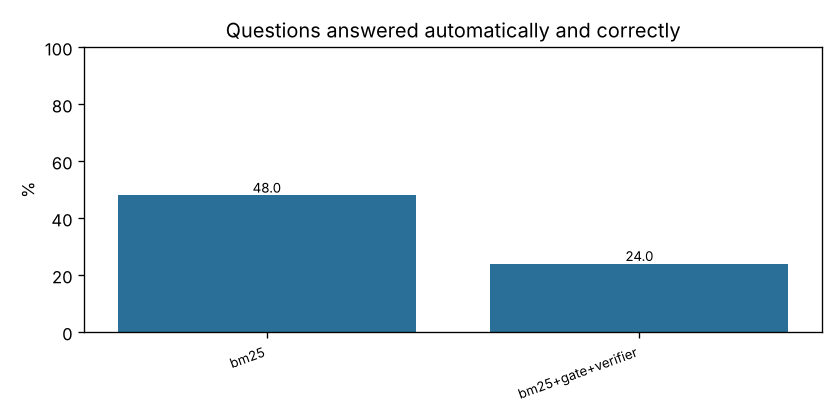
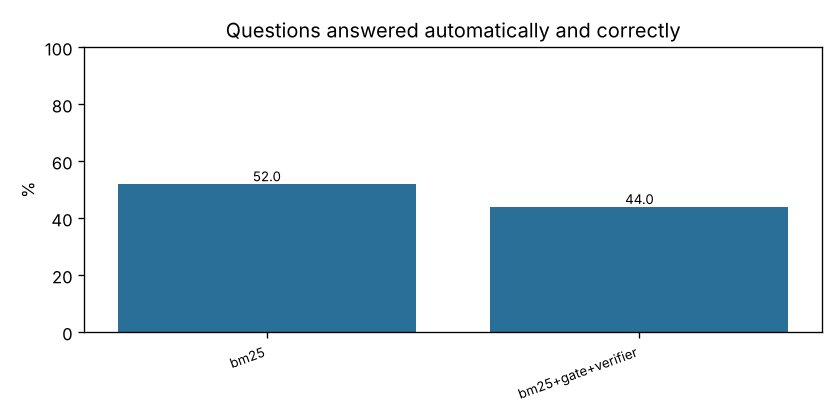
Spreadsheet label rows say '(template line item in ...)' so a section name never reads like a field value
Claude-Session: https://claude.ai/code/session_019u9b1pND1Kezy9oyWy8AQf

Changed region(s): [[0.5571, 0.4643, 0.9595, 0.65], [0.1238, 0.4024, 0.4952, 0.4643]]

diff --git a/tests/test_ingest.py b/tests/test_ingest.py
@@ -155,8 +155,8 @@ def test_parse_xlsx_headings_line_items_numbers_and_defs(tmp_path: Path) -> None
         "Column groups  LP share / Total fund",
     ]
     assert "# A.1 Reconciliation > Fees" in t  # bold row without values: sub-heading
-    assert "Management Fees  A.1 Reconciliation > Fees" in t
-    assert "Total Fees  A.1 Reconciliation > Fees (calculated row)" in t
+    assert "Management Fees  (template line item in A.1 Reconciliation > Fees)" in t
+    assert "Total Fees  (template line item in A.1 Reconciliation > Fees, calculated row)" in t
     assert any(ln.startswith("Footnote: an amount") for ln in t)  # long sentence stays a paragraph
     joined = pages[0].text
     for bad in ("123456", "987654", "111111", "2022", "(=)"):
@@ -207,3 +207,19 @@ def test_ilpa_template_real_file_regression() -> None:
     import re
 
     assert not re.search(r"\d{5,}", "\n".join(p.text for p in pages))  # no example figures indexed
+
+
+def test_label_only_rows_never_read_like_a_value(tmp_path: Path) -> None:
+    import openpyxl
+
+    from pereport.ingest import parse_xlsx
+
+    wb = openpyxl.Workbook()
+    ws = wb.active
+    ws.title = "Fund of Funds"
+    ws["C6"] = "Parent Fund Size:"  # an empty field in a blank template
+    path = tmp_path / "blank.xlsx"
+    wb.save(path)
+    text = parse_xlsx(path).pages[0].text
+    assert "Parent Fund Size:  (template line item in Fund of Funds)" in text
+    assert "Parent Fund Size:  Fund of Funds\n" not in text + "\n"

diff --git a/pereport/ingest.py b/pereport/ingest.py
@@ -236,7 +236,12 @@ def _sheet_lines(ws: Any, include_numbers: bool) -> list[str]:
             if need_header:
                 lines.append(STRUCTURE_HEADER)
                 need_header = False
-            lines.append(f"{t}  {context()}" + (f" {CALCULATED}" if calculated else ""))
+            # The second cell says what the row is. A bare section name there would read like the
+            # field's value ("Parent Fund Size:  Fund of Funds-Underlying"), which is never stated.
+            note = f"(template line item in {context()}" + (
+                ", calculated row)" if calculated else ")"
+            )
+            lines.append(f"{t}  {note}")
         if include_numbers and has_value:
             lines[-1] += "  " + " ".join(str(v) for _, v in row if _is_value(v))
     return lines

diff --git a/eval/ilpa/dev/report.md b/eval/ilpa/dev/report.md
@@ -1,19 +1,19 @@
 # Evaluation report (dev split)
 
-REAL DOCUMENT: official ILPA Reporting Template v2.0 (Jan 2025), a public TEMPLATE. Questions are about its definitions and structure, not about any fund's data. Dev split.
+REAL DOCUMENT: official ILPA Reporting Template v2.0 (Jan 2025), a public TEMPLATE. Questions are about its definitions and structure, not any fund's data. Dev split.
 
 Skipped configurations: embedding model BAAI/bge-small-en-v1.5 unavailable: ModuleNotFoundError: No module named 'sentence_transformers'; dense: skipped, model unavailable; hybrid: skipped, model unavailable; hybrid+rerank+gate+verifier: skipped, model unavailable
 
 | Config | N | Accuracy | Auto-answered (headline) | Hallucination | 95% upper | Faithfulness | Cit. P | Cit. R | Refusal P | Refusal R |
 |---|---|---|---|---|---|---|---|---|---|---|
-| bm25 | 25 | 52.0% | 48.0% | 7/24 (29.2%) | 49.2% | 66.7% | 51.7% | 71.4% | 100.0% | 12.5% |
-| bm25+gate+verifier | 25 | 56.0% | 24.0% | 0/12 (0.0%) | 24.3% | 66.7% | 57.1% | 75.0% | 61.5% | 100.0% |
+| bm25 | 25 | 56.0% | 52.0% | 7/24 (29.2%) | 49.2% | 100.0% | 55.2% | 76.2% | 100.0% | 12.5% |
+| bm25+gate+verifier | 25 | 76.0% | 44.0% | 0/13 (0.0%) | 22.8% | 100.0% | 56.5% | 76.5% | 66.7% | 100.0% |
 
 ## Per-category: bm25
 
 | Category | N | Answered | Refused | Correct |
 |---|---|---|---|---|
-| answerable | 15 | 15 | 0 | 11 |
+| answerable | 15 | 15 | 0 | 12 |
 | partial | 2 | 2 | 0 | 1 |
 | unanswerable | 8 | 7 | 1 | 1 |
 
@@ -21,6 +21,6 @@ Skipped configurations: embedding model BAAI/bge-small-en-v1.5 unavailable: Modu
 
 | Category | N | Answered | Refused | Correct |
 |---|---|---|---|---|
-| answerable | 15 | 11 | 4 | 5 |
+| answerable | 15 | 12 | 3 | 10 |
 | partial | 2 | 1 | 1 | 1 |
 | unanswerable | 8 | 0 | 8 | 8 |

diff --git a/eval/ilpa/test/report.md b/eval/ilpa/test/report.md
@@ -1,0 +1,26 @@
+# Evaluation report (test split)
+
+REAL DOCUMENT: official ILPA Reporting Template v2.0 (Jan 2025), a public TEMPLATE. Questions are about its definitions and structure, not any fund's data. Gate calibrated on the dev split only; test split scored once after the gold file was frozen, at commit a1284f8.
+
+Skipped configurations: embedding model BAAI/bge-small-en-v1.5 unavailable: ModuleNotFoundError: No module named 'sentence_transformers'; dense: skipped, model unavailable; hybrid: skipped, model unavailable; hybrid+rerank+gate+verifier: skipped, model unavailable
+
+| Config | N | Accuracy | Auto-answered (headline) | Hallucination | 95% upper | Faithfulness | Cit. P | Cit. R | Refusal P | Refusal R |
+|---|---|---|---|---|---|---|---|---|---|---|
+| bm25 | 23 | 56.5% | 52.2% | 6/22 (27.3%) | 48.2% | 100.0% | 53.8% | 87.5% | 100.0% | 14.3% |
+| bm25+gate+verifier | 23 | 52.2% | 30.4% | 2/11 (18.2%) | 47.7% | 100.0% | 52.9% | 100.0% | 41.7% | 71.4% |
+
+## Per-category: bm25
+
+| Category | N | Answered | Refused | Correct |
+|---|---|---|---|---|
+| answerable | 15 | 15 | 0 | 11 |
+| partial | 1 | 1 | 0 | 1 |
+| unanswerable | 7 | 6 | 1 | 1 |
+
+## Per-category: bm25+gate+verifier
+
+| Category | N | Answered | Refused | Correct |
+|---|---|---|---|---|
+| answerable | 15 | 9 | 6 | 7 |
+| partial | 1 | 0 | 1 | 0 |
+| unanswerable | 7 | 2 | 5 | 5 |
